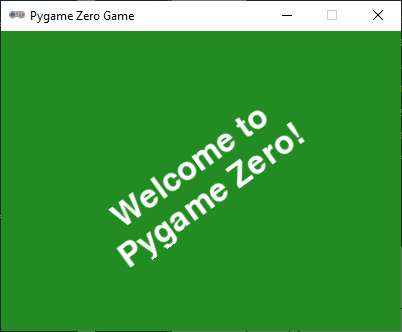
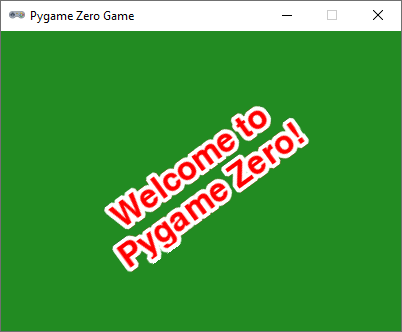
Tweak Pygame Zero example.

diff --git a/activities/pygame-zero-based/index.html b/activities/pygame-zero-based/index.html
@@ -43,7 +43,7 @@ text_pos = (WIDTH / 2, HEIGHT / 2)
 # Callback function to redraw the screen.
 def draw():
     screen.fill("forestgreen")
-    screen.draw.text("Welcome to\nPygame Zero!", center=text_pos, fontsize=48, angle=text_angle)
+    screen.draw.text("Welcome to\nPygame Zero!", center=text_pos, fontsize=48, angle=text_angle, color="red", ocolor="white", owidth=2)
 
 # Callback function to update the game. It is called at every frame.
 def update():
